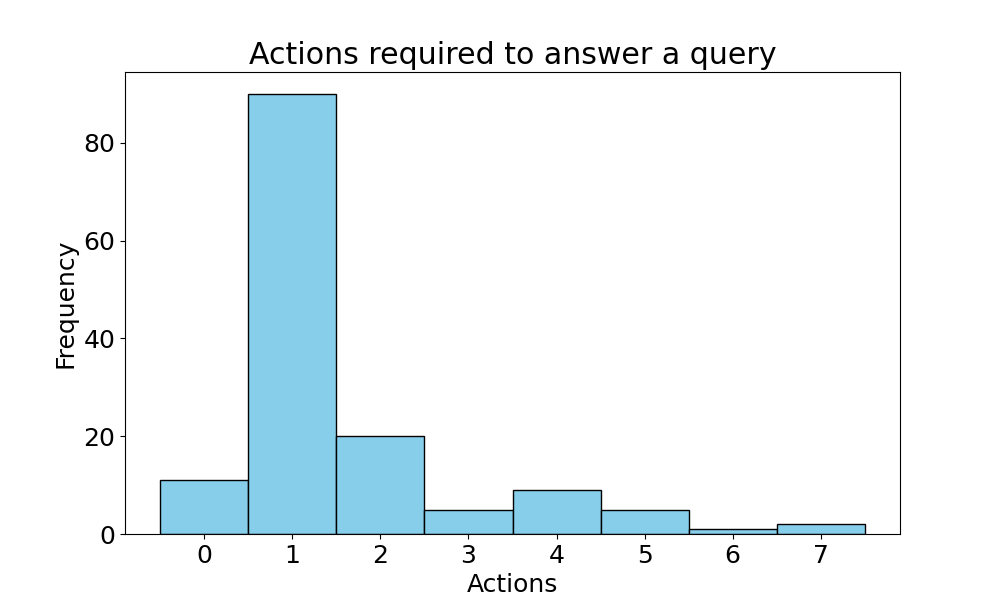
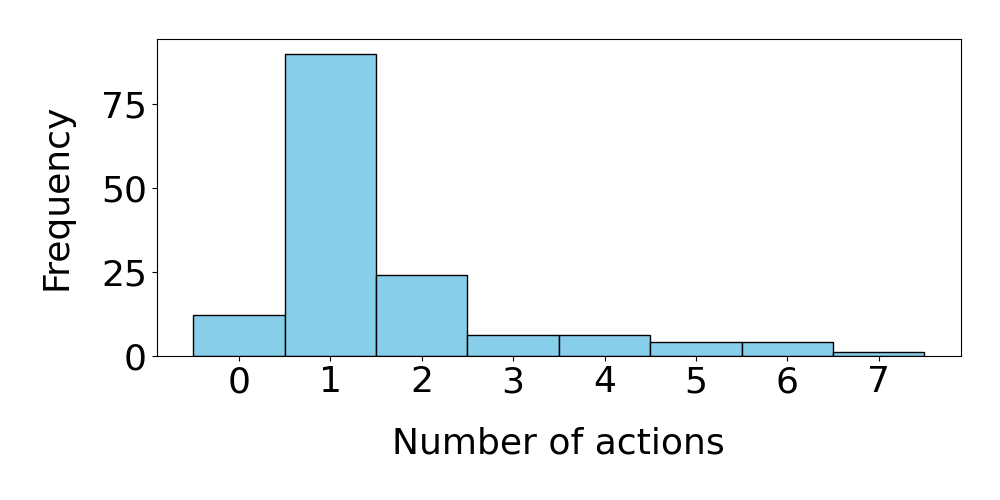
clean up plots

diff --git a/scripts/plotting/plot_error_breakdown.py b/scripts/plotting/plot_error_breakdown.py
@@ -10,12 +10,60 @@ labels = ["Correct", "Side Effects", "No Side Effects"]
 sizes = [correct, incorrrect_with_side_effects, incorrect_without_side_effects]
 colors = ["gold", "lightcoral", "lightskyblue"]
 # increase font size
-plt.rcParams.update({"font.size": 20})
+plt.rcParams.update({"font.size": 30})
 
 plt.figure(figsize=(8, 6))  # Adjusting figure size for better layout
-plt.pie(sizes, labels=labels, colors=colors, autopct="%1.1f%%", startangle=0)
+plt.pie(sizes, labels=labels, colors=colors, autopct="%1.0f%%", startangle=-10)
 plt.axis("equal")  # Ensure pie is drawn as a circle.
 
 # Adjust title to prevent overlap
-# plt.title('Error Breakdown', pad=20)  # pad adds space between the title and the plot
-plt.savefig("data/plots/error_breakdown.png")  # Save the plot to a file
+# bold title
+# plt.title('Error Breakdown', pad=40, weight='bold')
+# make sure labels are not cut off
+plt.tight_layout()
+plt.savefig("data/plots/error_breakdown.png", bbox_inches='tight')  # Save the plot to a file
+
+
+total = 2 + 1 + 15 + 3 + 20
+failed_to_follow_react = 2 + 9 + 1 + 4
+failed_to_retrive_email = 1 + 5 + 16 
+used_search_incorrectly = 1 + 2
+
+assert total == failed_to_follow_react + failed_to_retrive_email + used_search_incorrectly
+
+# Plot a pie chart for the errors with no side effects
+labels = ["Failed to\nfollow ReAct", "Wrong\nemail", "Used search\nincorrectly"]
+
+sizes = [failed_to_follow_react, failed_to_retrive_email, used_search_incorrectly]
+# new set of colors that are all different from the previous ones
+colors = ["lightgreen", "darkorange", "lightpink"]
+plt.figure(figsize=(8, 6))
+plt.pie(sizes, labels=labels, colors=colors, autopct="%1.0f%%", startangle=20)
+plt.axis("equal")
+# tight layout
+# plt.title("Errors with No Side Effects", pad=40, weight='bold')
+plt.tight_layout()
+
+plt.savefig("data/plots/error_breakdown_no_side_effects.png", bbox_inches='tight')  # Save the plot to a file
+
+# Errors with side effects
+
+total = 6 + 6 + 3 + 8
+wrong_email = 6 + 1 + 8
+updated_wrong_event = 4
+partial_update = 1 + 3
+
+assert total == wrong_email + updated_wrong_event + partial_update
+
+# Plot a pie chart for the errors with side effects
+labels = ["Wrong\nemail", "Updated wrong\nevent", "Partial\nupdate"]
+sizes = [wrong_email, updated_wrong_event, partial_update]
+
+colors = ["violet", "yellow", "lightblue"]
+plt.figure(figsize=(8, 6))
+plt.pie(sizes, labels=labels, colors=colors, autopct="%1.0f%%", startangle=0)
+plt.axis("equal")
+# tight layout
+# plt.title("Errors with Side Effects", pad=40, weight='bold')
+plt.tight_layout()
+plt.savefig("data/plots/error_breakdown_side_effects.png", bbox_inches='tight')  # Save the plot to a file

diff --git a/scripts/plotting/plot_number_of_tools.py b/scripts/plotting/plot_number_of_tools.py
@@ -4,27 +4,38 @@ import seaborn as sns
 import matplotlib.pyplot as plt
 
 # Data preparation
-domains = ["Multi\nDomain", "Email", "Calendar", "Analytics", "Project\nManagement", "CRM", "Overall"]
+domains = ["Multi\nDomain (21)\n", "Email (27)\n", "Calendar (30)\n", "Analytics (15)\n", "Project\nManagement (26)\n", "CRM (24)\n", "Overall (143)\n"]
 accuracy_all_tools = [61.9, 59.26, 76.67, 100.0, 23.08, 25.0, 55.24]
 accuracy_single_tool = [66.67, 51.85, 63.33, 93.33, 30.77, 33.33, 53.85]
+
+domains = ["Analytics\n(15)\n", "CRM\n(24)\n", "Calendar\n(30)\n", "Email\n(27)\n", "Project\nManagement\n(26)\n", "Multi\nDomain\n(21)\n", "Overall\n(143)\n"]
+accuracy_all_tools = [100.0, 25.0, 76.67, 59.26, 23.08, 61.9, 55.24]
+accuracy_single_tool = [93.33, 33.33, 63.33, 51.85, 30.77, 66.67, 53.85]
+
+
 data = {
     "Domain": domains * 2,
     "Accuracy (%)": accuracy_single_tool + accuracy_all_tools,
-    "Run Type": ["Single tool"] * len(domains) + ["All tools"] * len(domains),
+    "Run Type": ["Required Toolkit"] * len(domains) + ["All Toolkits"] * len(domains),
 }
 
 # Convert dictionary to DataFrame
 df = pd.DataFrame(data)
 
 # Increase font size
-sns.set(font_scale=2.2)
+sns.set(font_scale=2.5)
 
 # Set up the seaborn plot
-plt.figure(figsize=(14, 8))
+plt.figure(figsize=(18, 8))
 sns.barplot(x="Domain", y="Accuracy (%)", hue="Run Type", data=df, palette="coolwarm")
+# remove heading from key
+plt.legend(title=None)
+# make x and y labels bold
+plt.xlabel("Domain", weight="bold")
+plt.ylabel("Accuracy (%)", weight="bold")
 
 
-plt.title("Comparison of Accuracy Between Single-Tool and All-Tools Runs")
+# plt.title("Comparison of Accuracy Between Providing on Toolkit vs All Toolkits")
 plt.tight_layout()
 
 plt.savefig("data/plots/number_of_tools_accuracy_comparison.png")

diff --git a/scripts/plotting/plot_answer_action_lengths.py b/scripts/plotting/plot_answer_action_lengths.py
@@ -19,14 +19,17 @@ for file_path in file_paths:
     answer_lengths.extend(df["answer"].apply(lambda x: len(eval(x))))
 
 # Increase font size
-plt.rcParams.update({"font.size": 18})
+plt.rcParams.update({"font.size": 26})
 
 
 # Plotting the histogram of the length of the answer list
-plt.figure(figsize=(10, 6))
+plt.figure(figsize=(10, 5))
 plt.hist(answer_lengths, bins=range(0, max(answer_lengths) + 2), align="left", color="skyblue", edgecolor="black")
-plt.title("Actions required to answer a query")
-plt.xlabel("Actions")
-plt.ylabel("Frequency")
+plt.xlabel("Number of actions", labelpad=20)
+plt.ylabel("Frequency", labelpad=20)
+
+
 plt.xticks(range(0, max(answer_lengths) + 1))
+# tight_layout() adjusts the plot to fit into the figure area
+plt.tight_layout()
 plt.savefig("data/plots/answer_action_lengths.png")
